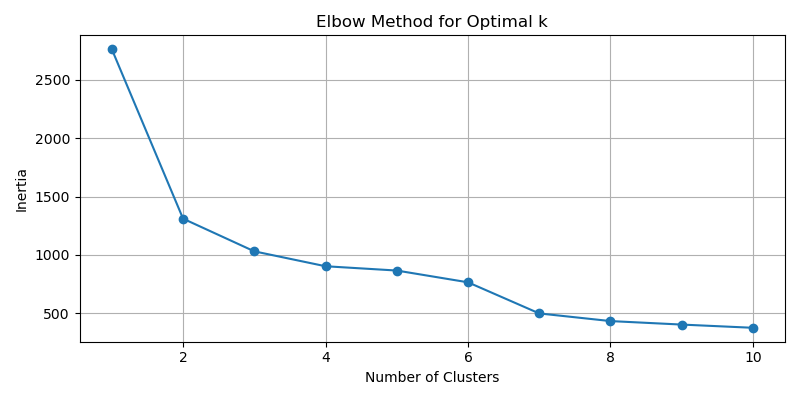
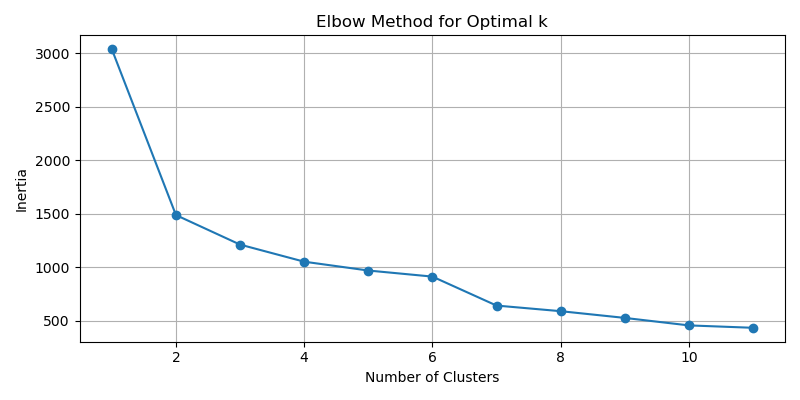
uofa dist

diff --git a/models/idea_one_model.py b/models/idea_one_model.py
@@ -36,6 +36,11 @@ user_bikeability_rating = int(user_bikeability_rating)
 if user_bikeability_rating < 1 or user_bikeability_rating > 5:
     raise ValueError("Bikeability rating must be between 1 and 5.")
 
+user_distance_uofa = input("How important is distance to U of A to you? (1-5): ")
+user_distance_uofa = int(user_distance_uofa)
+if user_distance_uofa < 1 or user_distance_uofa > 5:
+    raise ValueError("Distance to U of A rating must be between 1 and 5.")
+
 print(f"User ratings - Safety: {user_safety_rating}, Affordability: {user_affordability_rating}, Transit: {user_tranist_rating}, Walkability: {user_walkability_rating}, Bikeability: {user_bikeability_rating}")
 
 #%%
@@ -63,7 +68,7 @@ print("df columns:", df.columns.tolist())
 # Select columns that are safe and valid for clustering
 clustering_features = df[[
     'rent2019', 'rent2020', 'rent2021', 'rent2022', 'rent2023', 'CrimeRate',
-    'WalkScore', 'TransitScore','BikeScore', 'rent2024'
+    'WalkScore', 'TransitScore','BikeScore', 'Distance to U of A (km)', 'rent2024'
 ]]
 
 # Normalize the features
@@ -72,14 +77,14 @@ scaled_features = scaler.fit_transform(clustering_features)
 
 # Optional: Elbow method to decide best k
 inertia = []
-for k in range(1, 11):
+for k in range(1, 12):
     kmeans = KMeans(n_clusters=k, random_state=42, n_init='auto')
     kmeans.fit(scaled_features)
     inertia.append(kmeans.inertia_)
 
 # Save elbow plot
 plt.figure(figsize=(8, 4))
-plt.plot(range(1, 11), inertia, marker='o')
+plt.plot(range(1, 12), inertia, marker='o')
 plt.title('Elbow Method for Optimal k')
 plt.xlabel('Number of Clusters')
 plt.ylabel('Inertia')
@@ -118,7 +123,7 @@ print(df)
 #Cluster interpretation summary
 summary = df.groupby('Cluster')[[
    'rent2019', 'rent2020', 'rent2021', 'rent2022', 'rent2023', 'CrimeRate',
-     'WalkScore', 'TransitScore','BikeScore', 'rent2024'
+     'WalkScore', 'TransitScore','BikeScore', 'Distance to U of A (km)', 'rent2024'
 ]].mean().round(2)
 
 print("\nCluster Summary:")
@@ -141,6 +146,11 @@ joblib.dump(kmeans, kmeans_model_path)
 # Print confirmation
 print(f"KMeans saved")
 
+#%%
+# labels = ['Very Low', 'Low', 'Neutral', 'High', 'Very High']
+# df['Distance_UofA'], bins = pd.qcut(df['Distance to U of A (km)'], q=5, labels=labels, retbins=True)
+# print(bins)
+
 #%% 
 # define upper and lower bounds for the saftey based on the user input
 
@@ -150,7 +160,8 @@ user_input = {
     'affordability': user_affordability_rating,
     'transitscore': user_tranist_rating,
     'walkscore': user_walkability_rating,
-    'bikescore': user_bikeability_rating
+    'bikescore': user_bikeability_rating, 
+    'uofa': user_distance_uofa
 }
 crime_rate_bounds = {
     1: (0.12 , 16.42),   # very low
@@ -191,13 +202,21 @@ bikeability_bounds = {
     5: (47, 92) # very high
 }
 
+uofa_bounds = { 
+    1: (11.73721675, 22.30119328),   # very low
+    2: (9.71986469, 11.73721675), # low
+    3: (7.45851460 , 9.71986468), # medium
+    4: (4.92003644,  7.45851459 ), # high
+    5: (0.2303176267, 4.92003643) # very high
+}
 # bounds dict
 bounds_dict = {
     'crimerate': crime_rate_bounds,
     'affordability': affordability_bounds,
     'transitscore': transit_bounds,
     'walkscore': walkability_bounds,
-    'bikescore': bikeability_bounds
+    'bikescore': bikeability_bounds, 
+    'uofa': uofa_bounds
 }
 
 column_map = {
@@ -205,7 +224,8 @@ column_map = {
     'affordability': 'rent2024', 
     'transitscore': 'TransitScore', 
     'walkscore': 'WalkScore',
-    'bikescore': 'BikeScore'
+    'bikescore': 'BikeScore',
+    'uofa': 'Distance to U of A (km)'
 }
 
  #%%
@@ -217,11 +237,11 @@ filtered_df = df.copy()
 filtered_df = filtered_df.drop(columns=['NeighbourhoodNumber', 'CenterLocation', 
                                          'CityZone', 'CMHCZone', 'CrimeRate', 
                                          'SupportiveHousingCount', 'SupportiveUnits', 
-                                         'SheltersCount','Distance to U of A (km)',
+                                         'SheltersCount',
                                         'Distance to MacEwan (km)', 
                                         'Distance to NAIT (km)', 
                                         'Distance to Concordia (km)',
-                                        'Distance to NorQuest (km)','NeighbourhoodName', 'Population', ], axis=1)
+                                        'Distance to NorQuest (km)','NeighbourhoodName', 'Population' ], axis=1)
 
 
 
@@ -234,6 +254,7 @@ bound_crime_occurances = list(bounds_dict['crimerate'][user_input['crimerate']])
 bound_transit_scores = list(bounds_dict['transitscore'][user_input['transitscore']])
 bound_walk_scores = list(bounds_dict['walkscore'][user_input['walkscore']])
 bound_bike_scores = list(bounds_dict['bikescore'][user_input['bikescore']])
+bound_uofa = list(bounds_dict['uofa'][user_input['uofa']])
 
 #%%
 # make a "hypothetical" dataframe with the combinations of the bounds lists
@@ -256,14 +277,15 @@ combo_lists = [
     bound_crime_occurances,
     bound_walk_scores,
     bound_transit_scores,
-    bound_bike_scores
+    bound_bike_scores, 
+    bound_uofa
 ]
 
 all_combinations = list(product(*combo_lists))
 
 # flatten tuples
 combo_df = pd.DataFrame(all_combinations, columns=[
-    'historical_afford', 'rent2023', 'CrimeRate', 'WalkScore', 'TransitScore', 'BikeScore'
+    'historical_afford', 'rent2023', 'CrimeRate', 'WalkScore', 'TransitScore', 'BikeScore', 'Distance to U of A (km)'
 ])
 
 # split historical affordability into separate columns
@@ -274,7 +296,7 @@ combo_df = combo_df.drop(columns=['historical_afford'])
 
 columns = [
     'rent2019', 'rent2020', 'rent2021', 'rent2022',
-    'rent2023', 'CrimeRate', 'WalkScore', 'TransitScore', 'BikeScore'
+    'rent2023', 'CrimeRate', 'WalkScore', 'TransitScore', 'BikeScore', 'Distance to U of A (km)'
 ]
 combo_df = combo_df[columns]
 print(combo_df)
@@ -287,7 +309,7 @@ print(combo_df)
 X = df.drop(columns=['rent2024', 'rent2025','NeighbourhoodNumber', 'CenterLocation', 
                      'CityZone', 'CMHCZone', 'CrimeOccurances', 
                      'SupportiveHousingCount', 'SupportiveUnits', 
-                     'SheltersCount','Distance to U of A (km)',
+                     'SheltersCount',
                     'Distance to MacEwan (km)', 
                     'Distance to NAIT (km)', 
                     'Distance to Concordia (km)',
@@ -373,6 +395,7 @@ print(hypothetical_neighborhoods)
 kmeans = joblib.load('/Users/mylayambao/resiSense/models/kmeans_model.pkl')
 # Predict clusters for the hypothetical neighborhoods
 hypothetical_neighborhoods_scaled = scaler.transform(hypothetical_neighborhoods)
+print(hypothetical_neighborhoods_scaled)
 hypothetical_neighborhoods['Cluster'] = kmeans.predict(hypothetical_neighborhoods_scaled)
 # Print the hypothetical neighborhoods with clusters
 print("\nHypothetical Neighborhoods with Clusters:")
